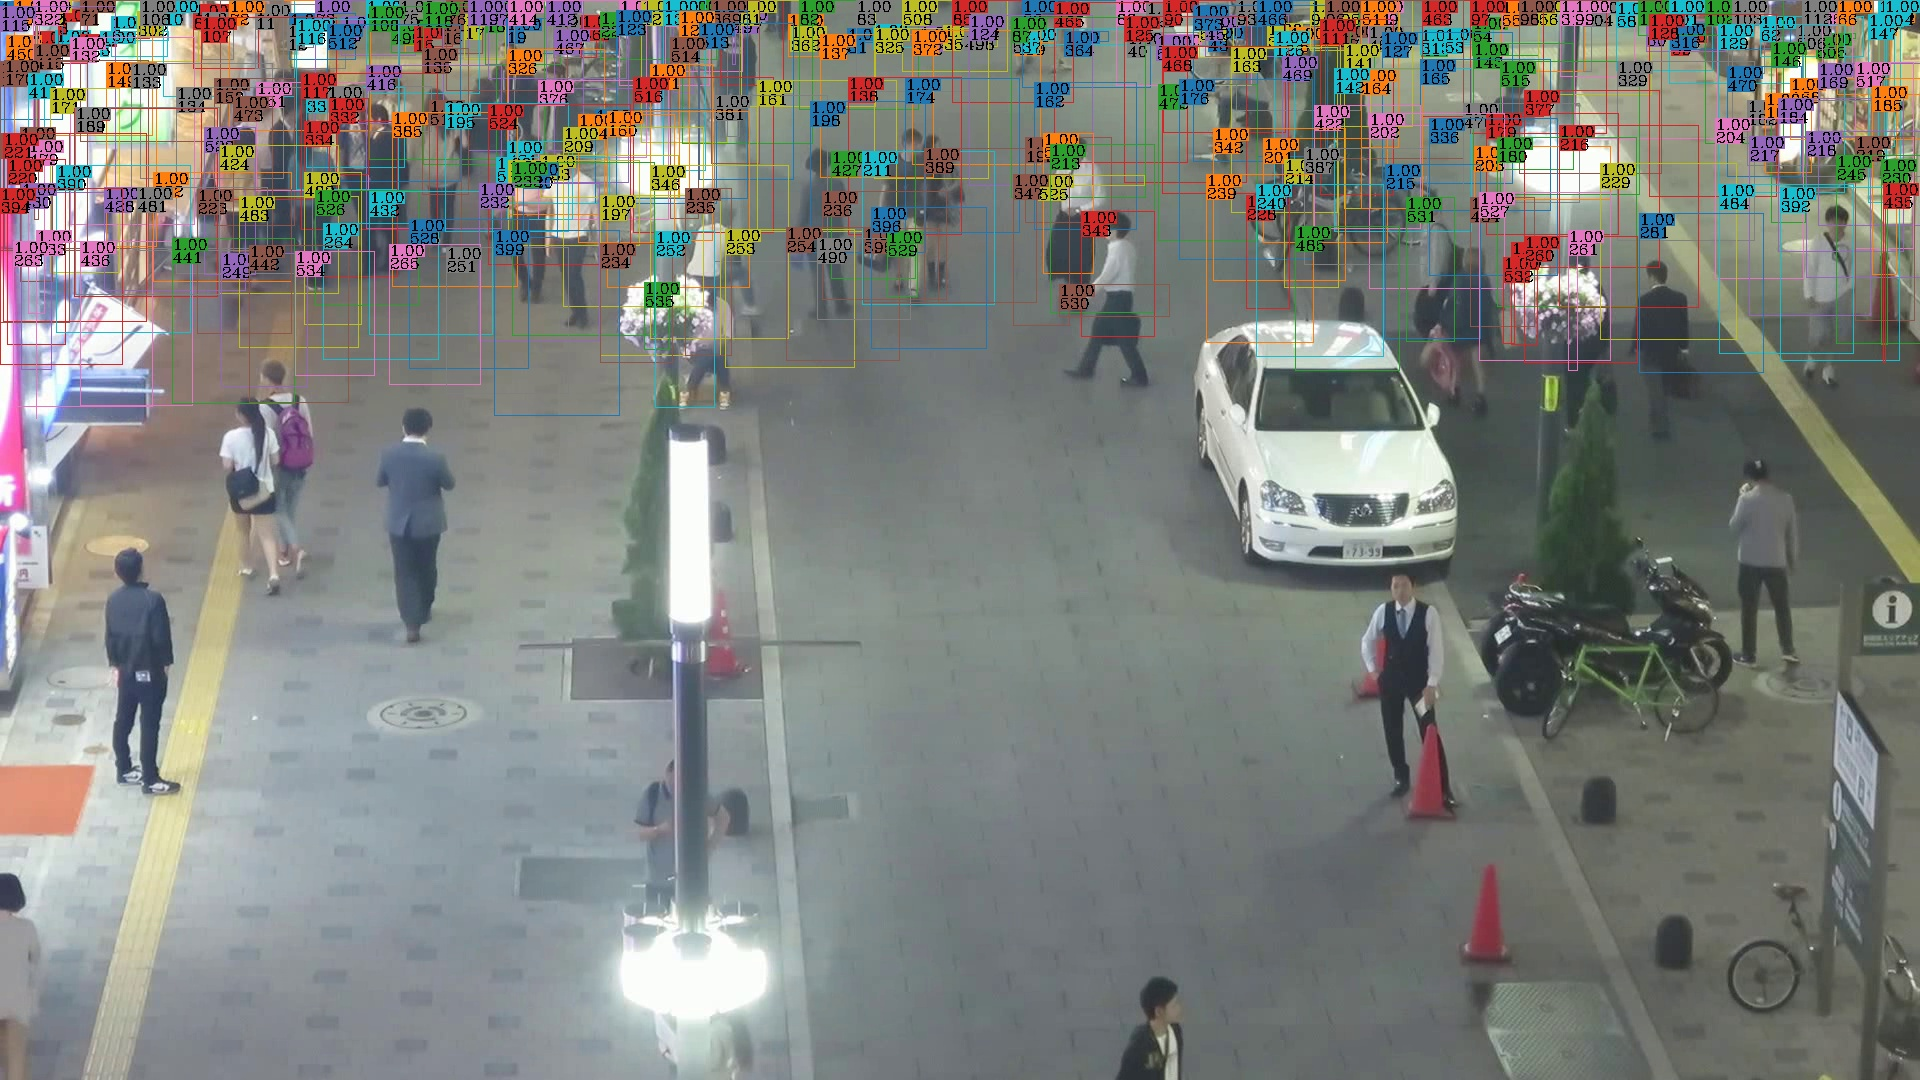
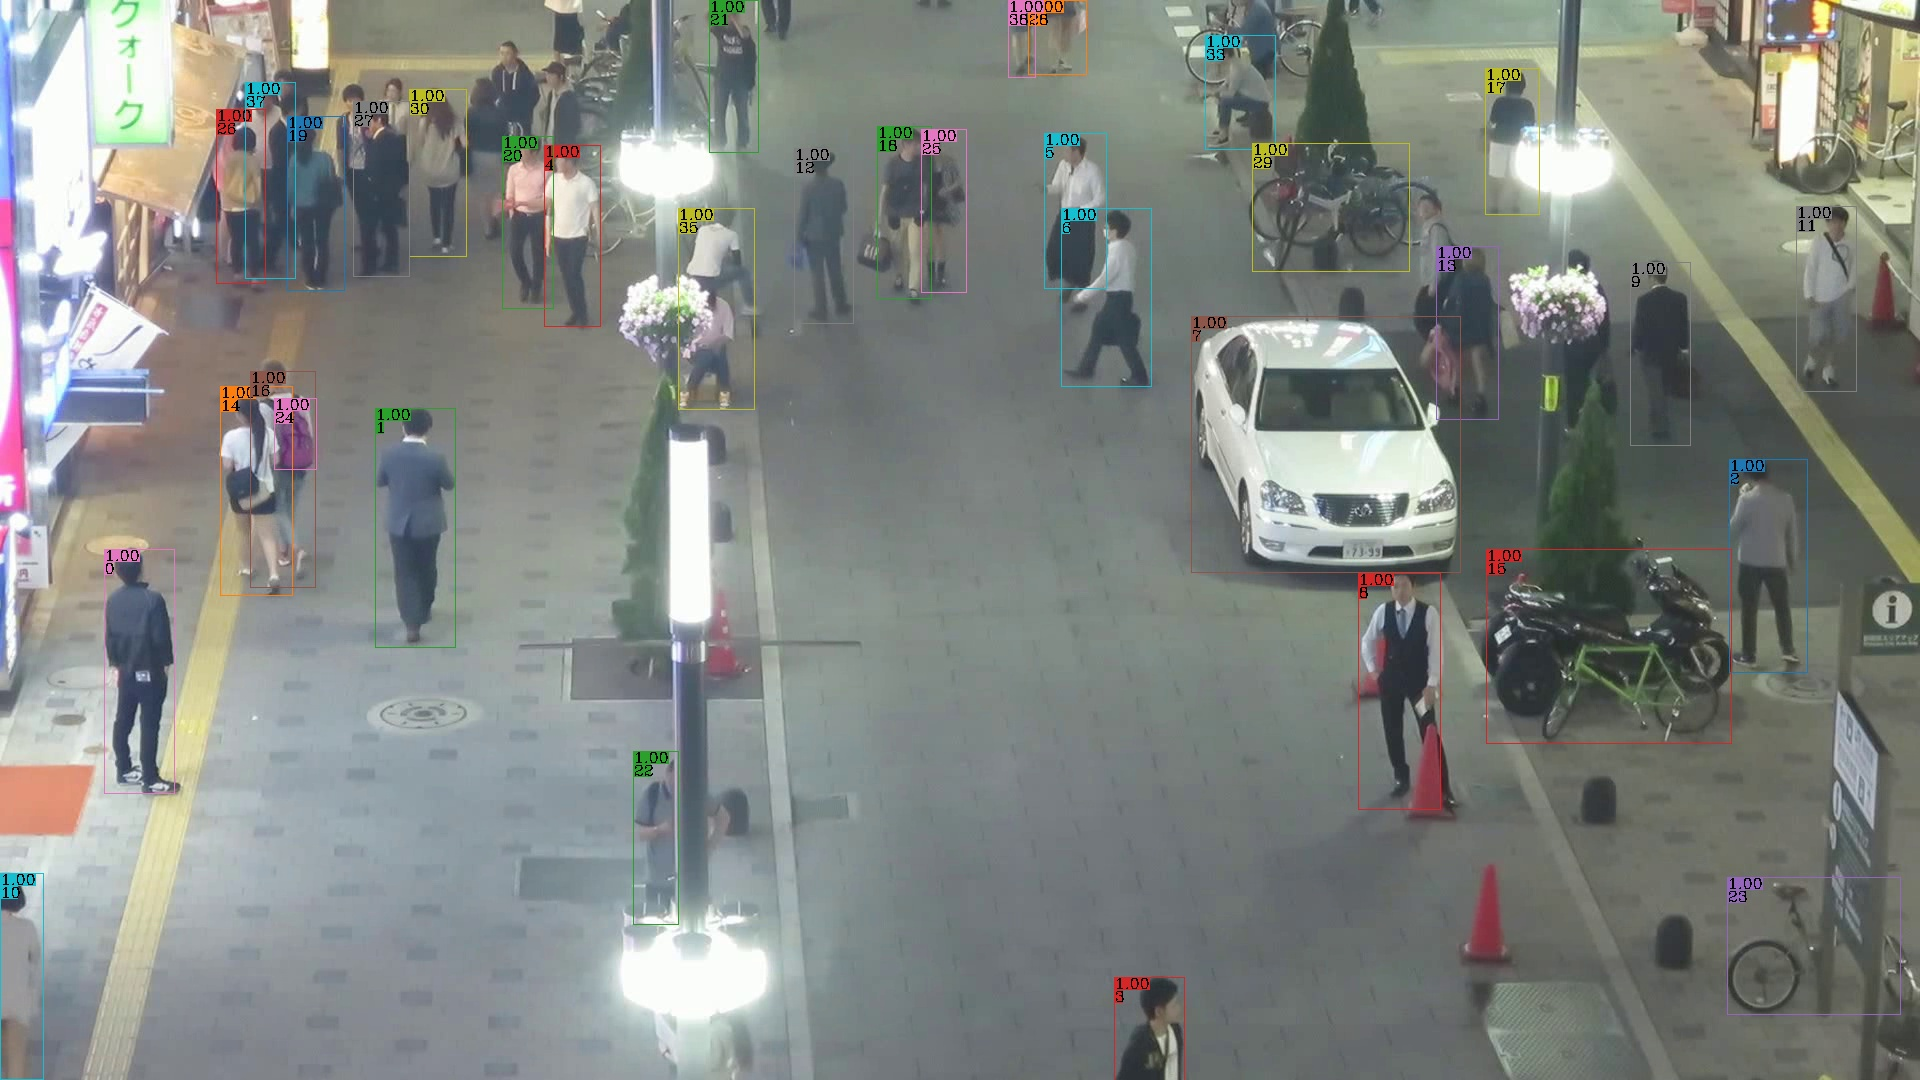
change mean, std in image norm

diff --git a/configs/mot/deepsort/my_config.py b/configs/mot/deepsort/my_config.py
@@ -28,35 +28,35 @@ model = dict(
         )
     ),
     motion=dict(type="KalmanFilter", center_only=False),
-    # reid=dict(
-    #     type="MyReID",
-    #     model_name="resnet50",
-    #     model_path=None,
-    #     device="cuda"
-    # ),
     reid=dict(
-        type="BaseReID",
-        backbone=dict(
-            type="ResNet", depth=50, num_stages=4, out_indices=(3,), style="pytorch"
-        ),
-        neck=dict(type="GlobalAveragePooling", kernel_size=(8, 4), stride=1),
-        head=dict(
-            type="LinearReIDHead",
-            num_fcs=1,
-            in_channels=2048,
-            fc_channels=1024,
-            out_channels=128,
-            num_classes=380,
-            loss=dict(type="CrossEntropyLoss", loss_weight=1.0),
-            loss_pairwise=dict(type="TripletLoss", margin=0.3, loss_weight=1.0),
-            norm_cfg=dict(type="BN1d"),
-            act_cfg=dict(type="ReLU"),
-        ),
-        init_cfg=dict(
-            type="Pretrained",
-            checkpoint="https://download.openmmlab.com/mmtracking/mot/reid/tracktor_reid_r50_iter25245-a452f51f.pth",  # noqa: E251  # noqa: E501
-        ),
+        type="MyReID",
+        model_name="resnet50",
+        model_path=None,
+        device="cuda"
     ),
+    # reid=dict(
+    #     type="BaseReID",
+    #     backbone=dict(
+    #         type="ResNet", depth=50, num_stages=4, out_indices=(3,), style="pytorch"
+    #     ),
+    #     neck=dict(type="GlobalAveragePooling", kernel_size=(8, 4), stride=1),
+    #     head=dict(
+    #         type="LinearReIDHead",
+    #         num_fcs=1,
+    #         in_channels=2048,
+    #         fc_channels=1024,
+    #         out_channels=128,
+    #         num_classes=380,
+    #         loss=dict(type="CrossEntropyLoss", loss_weight=1.0),
+    #         loss_pairwise=dict(type="TripletLoss", margin=0.3, loss_weight=1.0),
+    #         norm_cfg=dict(type="BN1d"),
+    #         act_cfg=dict(type="ReLU"),
+    #     ),
+    #     init_cfg=dict(
+    #         type="Pretrained",
+    #         checkpoint="https://download.openmmlab.com/mmtracking/mot/reid/tracktor_reid_r50_iter25245-a452f51f.pth",  # noqa: E251  # noqa: E501
+    #     ),
+    # ),
     tracker=dict(
         type="SortTracker",
         obj_score_thr=0.5,
@@ -73,12 +73,12 @@ model = dict(
 # img_norm_cfg = dict(
 #     mean=[123.675, 116.28, 103.53], std=[58.395, 57.12, 57.375], to_rgb=True)
 img_norm_cfg = dict(
-    mean=[0.0, 0.0, 0.0], std=[1.0, 1.0, 1.0], to_rgb=True)
+    mean=[0.0, 0.0, 0.0], std=[255.0, 255.0, 255.0], to_rgb=True)
 test_pipeline = [
     dict(type='LoadImageFromFile'),
     dict(
         type='MultiScaleFlipAug',
-        img_scale=(640, 640),
+        img_scale=(1080, 1080),
         flip=False,
         transforms=[
             dict(type='Resize', keep_ratio=True),
